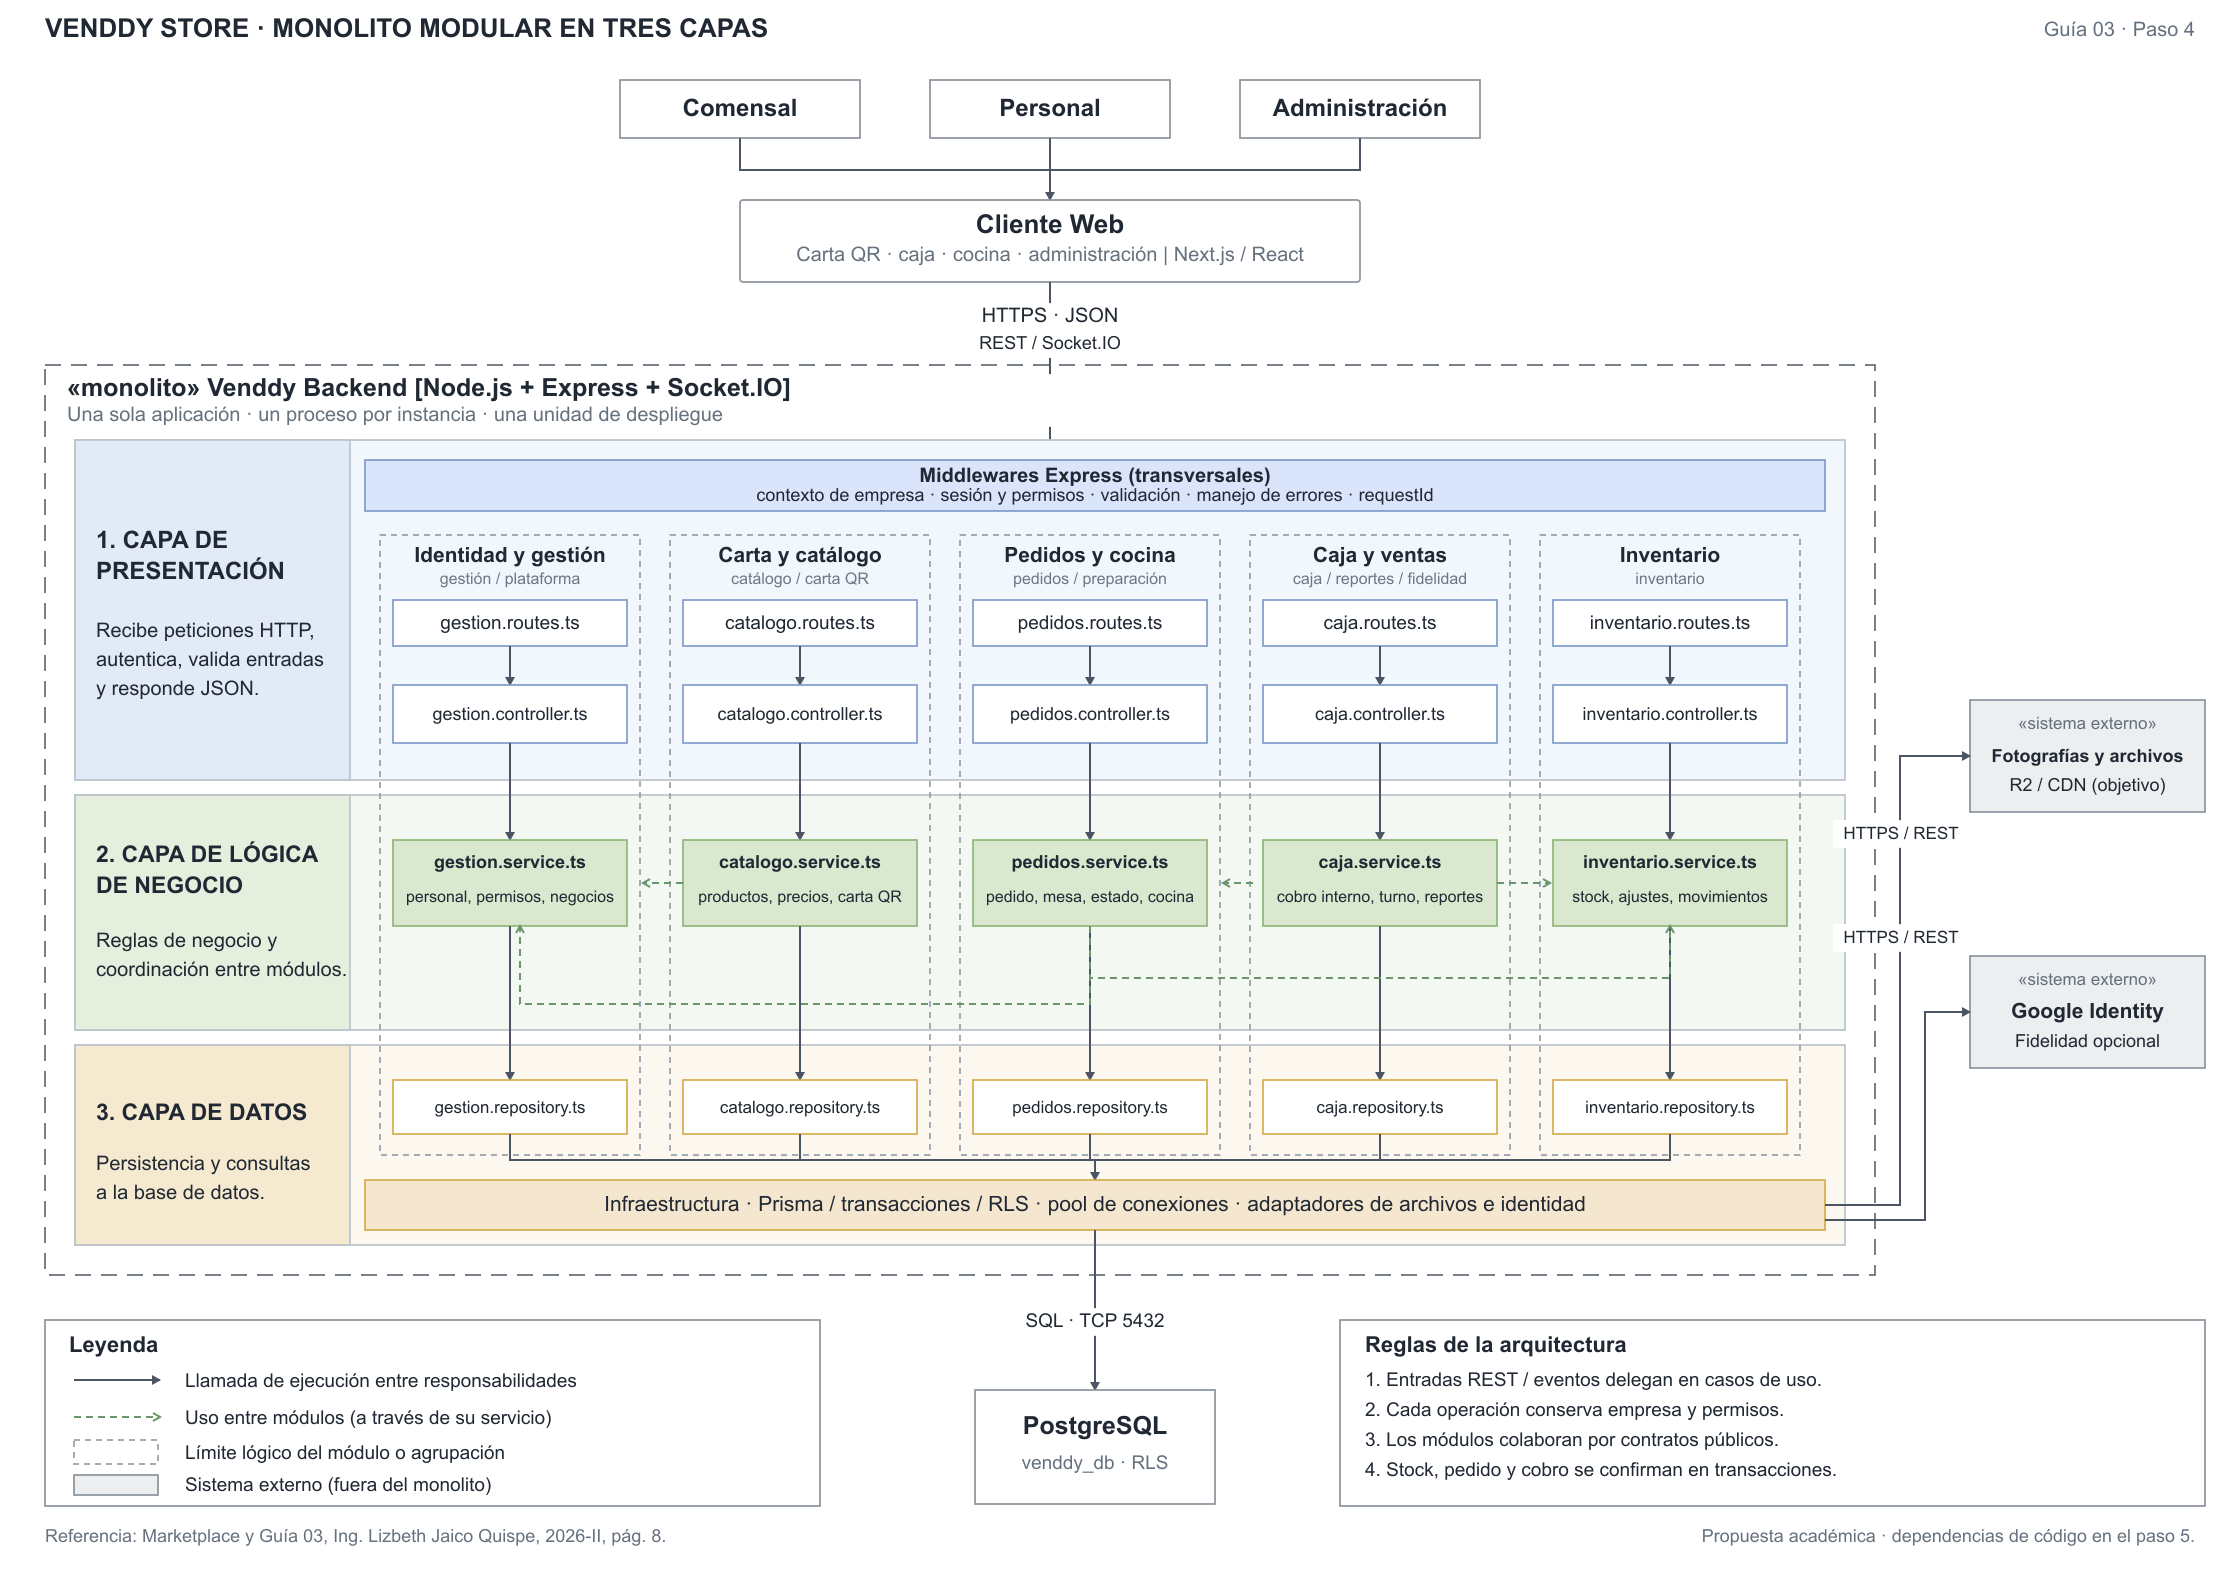
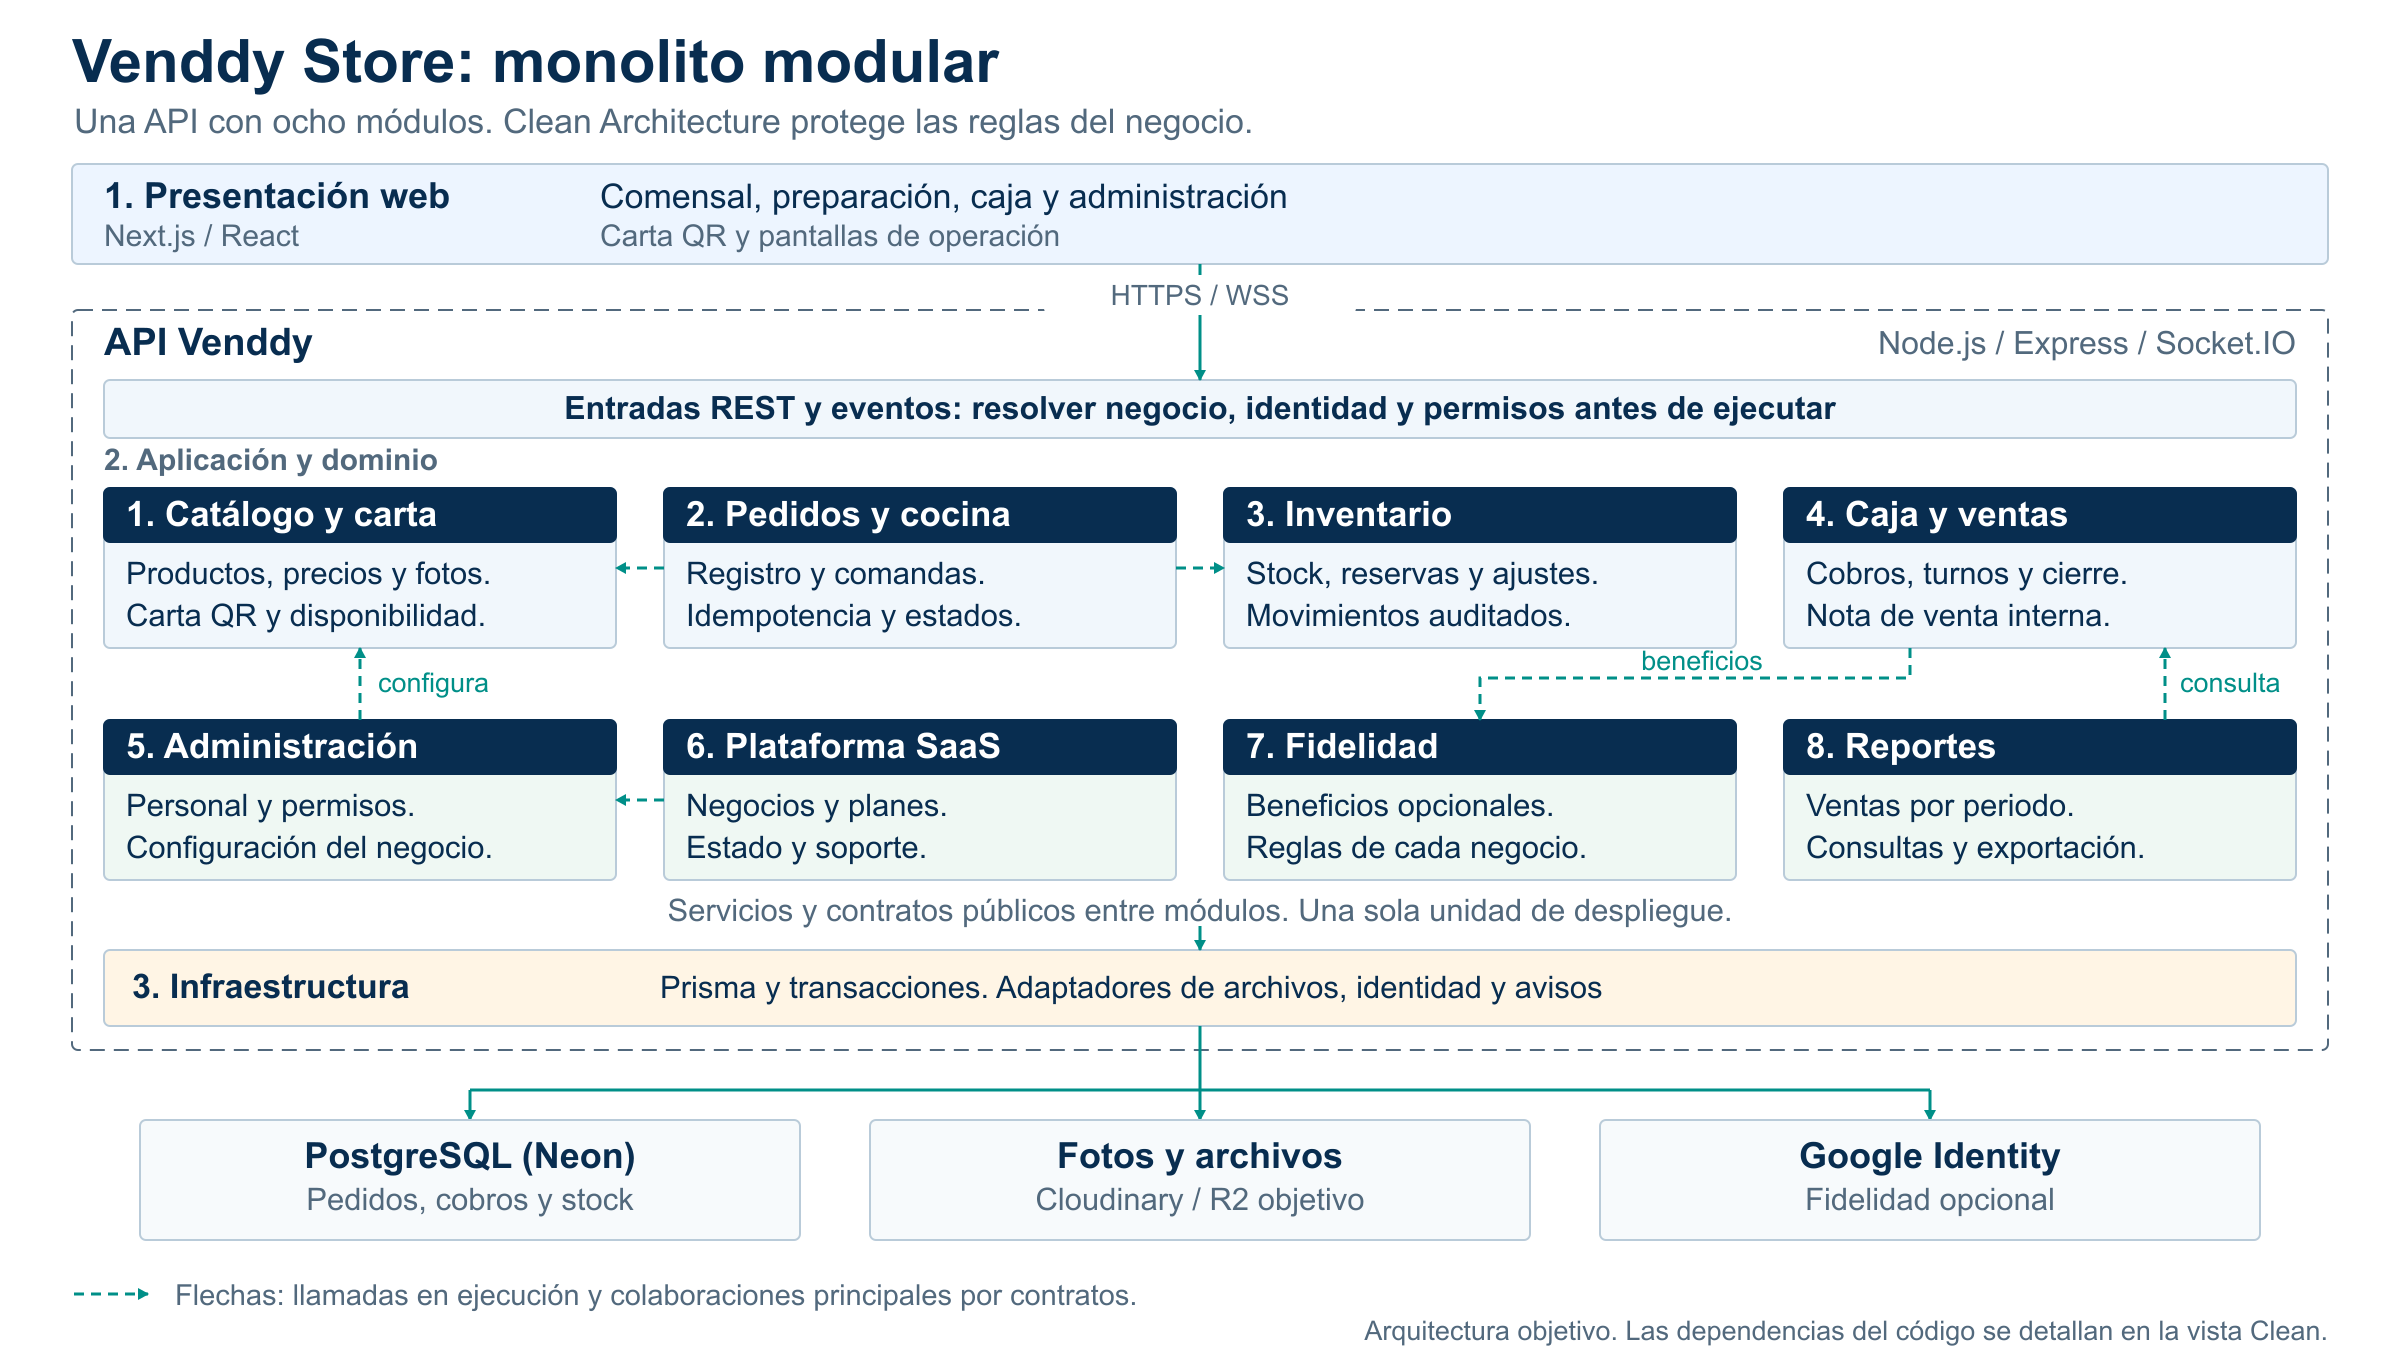
correcciones menores

diff --git a/docs/02-arquitectura-software/estilo-arquitectonico.md b/docs/02-arquitectura-software/estilo-arquitectonico.md
@@ -2,9 +2,9 @@
 
 ![Monolito modular](../../img/ArquitecturaMonoliticaVenddyEnCapas.png)
 
-Las cinco columnas agrupan ocho módulos: Identidad y gestión reúne Administración y Plataforma; Caja y ventas agrupa también Reportes y Fidelidad. Las otras columnas son Catálogo, Pedidos/cocina e Inventario.
+Los ocho módulos aparecen separados y numerados dentro del límite de una sola API. Cada bloque muestra una responsabilidad; las flechas destacan colaboraciones por contratos públicos.
 
-Sus tres responsabilidades globales son Presentación, Negocio y Datos. Negocio agrupa Aplicación y Dominio; Datos corresponde a los mecanismos de Infraestructura. Las flechas de esta vista muestran ejecución. Las dependencias del código se precisan en la vista Clean; no se introduce otro enfoque.
+La vista se lee desde Presentación web hacia Aplicación/Dominio e Infraestructura. PostgreSQL, archivos e identidad externa están fuera del proceso de API. Las flechas muestran llamadas durante la ejecución; las dependencias del código se precisan en la vista Clean.
 
 | Decisión | Consecuencia en Venddy |
 |---|---|
